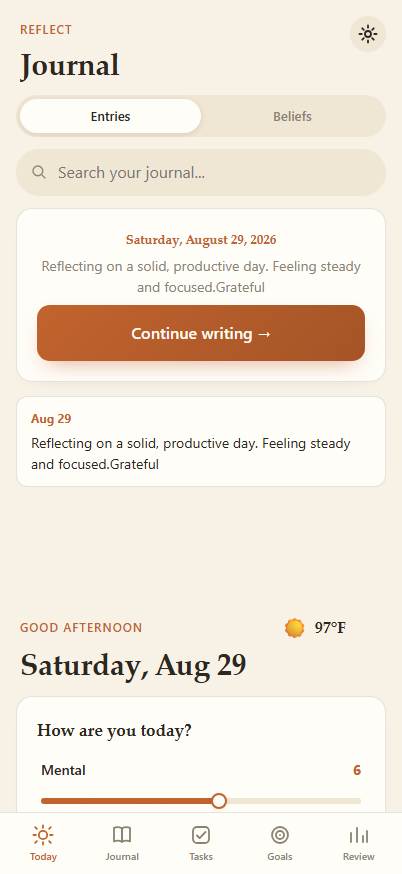
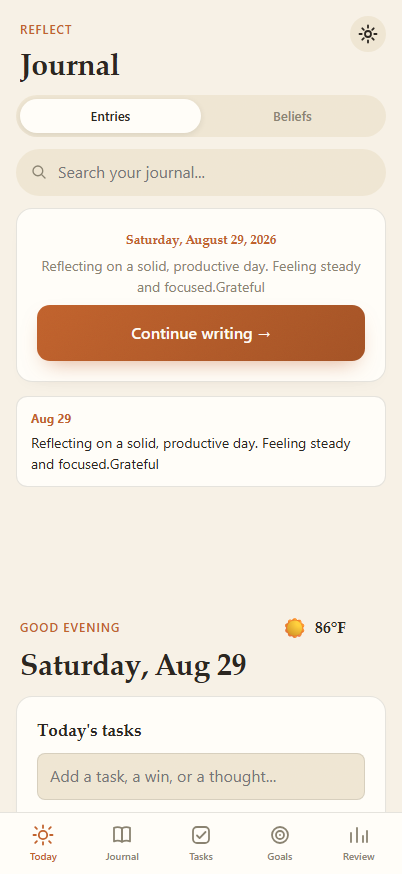
v2.6.1: Today leads with tasks capture, reworked into +Task/Did it/Thought
Reorders the Today scroll-area so the tasks/capture card comes right after
the (usually-hidden) recap, before the calendar; the "How are you today?"
check-in moves down to after the calendar. Reworks the Home tasks widget
from a single open-task quick-add into the same three-button capture as the
Tasks tab (+Task / Did it / Thought), reusing its .task-capture__actions /
.chip-btn classes and the shared wireAutosave save-badge, so a done item or
a thought can be logged straight from the launchpad instead of only from
the Tasks tab.

Claude-Session: https://claude.ai/code/session_01LwL4mP3FPJfFNKsVsGE2Vw

Changed region(s): [[0.0896, 0.8032, 0.9254, 0.9268], [0.1493, 0.7105, 0.3582, 0.7414], [0.7761, 0.7105, 0.8358, 0.7414]]

diff --git a/js/views/today.js b/js/views/today.js
@@ -6,8 +6,8 @@
 // (goals/milestones). See docs/SPEC.md "v2 -- Home as an inviting launchpad" + "v2.2"/"v2.6".
 import { todayStr, addDays } from '../db.js';
 import {
-  getSettings, getTasksForDate, getActivityStreak, getDay, saveDay, addTask, toggleTask,
-  getAssessmentCount, getDoneTasks, getThoughts,
+  getSettings, getTasksForDate, getActivityStreak, getDay, saveDay, addTask, addDoneTask,
+  addThought, toggleTask, getAssessmentCount, getDoneTasks, getThoughts,
 } from '../store.js';
 import { createHomeCalendar } from '../components/homecalendar.js';
 import { createHealthSlider } from '../components/slider.js';
@@ -100,14 +100,14 @@ export async function renderToday(root) {
     <div class="scroll-area">
       <section class="card home-widget home-widget--recap" id="w-recap" hidden></section>
 
-      <section class="card home-widget home-widget--checkin" id="w-checkin" ${w.checkin ? '' : 'hidden'}></section>
-
       <section class="card home-widget home-widget--tasks" id="w-tasks" ${w.todayTasks ? '' : 'hidden'}></section>
 
       <section class="card home-widget home-widget--calendar" id="w-calendar" ${w.calendar ? '' : 'hidden'}>
         <div class="card__title-row"><h2 class="card__title">Your month</h2></div>
         <div id="home-cal-mount"></div>
       </section>
+
+      <section class="card home-widget home-widget--checkin" id="w-checkin" ${w.checkin ? '' : 'hidden'}></section>
 
       <section class="card home-widget home-widget--assessment" id="w-assessment" hidden></section>
 
@@ -401,19 +401,35 @@ function renderAstroWidget(el, settings) {
 // reusing components/tasklist.js's createTaskSection: no drag-reorder or goal-link
 // chip here (those stay on the Tasks tab) -- distinct `home-tasklist` classes so this
 // never collides with `.task-list`/`.task-row` styling or selectors used elsewhere.
+// v2.6.1 -- promoted to a real quick-capture (the launchpad now leads with it, see
+// renderToday's reordered template): reuses the exact Tasks-tab capture pattern
+// (`.task-capture__actions` + the three `.chip-btn` variants + the shared
+// `wireAutosave` badge from components/savebadge.js) so +Task/Did it/Thought behave
+// and look identical here as on the Tasks tab. The capture markup + badge are mounted
+// ONCE and never wiped by a redraw -- only the list below (`drawList()`) re-renders on
+// add/toggle, so the "Saved ✓" fade is never cut short by its own container refreshing.
 async function renderTasksWidget(el, date) {
-  async function draw() {
+  el.innerHTML = `
+    <div class="card__title-row"><h2 class="card__title">Today's tasks</h2></div>
+    <input type="text" class="text-field" id="home-tasklist-input" placeholder="Add a task, a win, or a thought..." />
+    <div class="task-capture__actions">
+      <button type="button" class="chip-btn" id="home-tasklist-task-btn">+ Task</button>
+      <button type="button" class="chip-btn chip-btn--done" id="home-tasklist-did-btn">&#10003; Did it</button>
+      <button type="button" class="chip-btn chip-btn--learned" id="home-tasklist-thought-btn">~ Thought</button>
+    </div>
+    <div class="autosave-hint" id="home-tasklist-hint">&nbsp;</div>
+    <ul class="home-tasklist" id="home-tasklist"></ul>
+    <p class="empty-hint" id="home-tasklist-empty" hidden>Nothing yet — add a task above.</p>
+    <a href="#/tasks" class="settings-hint" style="display:block;margin-top:8px;text-decoration:none;">See all in Tasks &rarr;</a>
+  `;
+  const badge = wireAutosave(el.querySelector('#home-tasklist-hint'));
+  const listEl = el.querySelector('#home-tasklist');
+  const emptyEl = el.querySelector('#home-tasklist-empty');
+  const input = el.querySelector('#home-tasklist-input');
+
+  async function drawList() {
     const tasks = await getTasksForDate(date);
-    el.innerHTML = `
-      <div class="card__title-row"><h2 class="card__title">Today's tasks</h2></div>
-      <ul class="home-tasklist" id="home-tasklist"></ul>
-      <p class="empty-hint" id="home-tasklist-empty" ${tasks.length ? 'hidden' : ''}>Nothing yet — add a task below.</p>
-      <div class="home-tasklist-add">
-        <input type="text" class="text-field" id="home-tasklist-input" placeholder="Add a task..." />
-        <button class="chip-btn" id="home-tasklist-add-btn">+ Add</button>
-      </div>
-    `;
-    const listEl = el.querySelector('#home-tasklist');
+    emptyEl.hidden = tasks.length > 0;
     listEl.innerHTML = tasks.map((t) => `
       <li class="home-tasklist__row ${t.done ? 'is-done' : ''}" data-id="${t.id}">
         <button class="task-check" aria-label="Toggle done"><svg viewBox="0 0 24 24" fill="none"><path d="M5 12.5l4.5 4.5L19 7.5" stroke="currentColor" stroke-width="2.4" stroke-linecap="round" stroke-linejoin="round"/></svg></button>
@@ -425,21 +441,29 @@ async function renderTasksWidget(el, date) {
         row.classList.add('is-animating');
         const done = await toggleTask(Number(row.dataset.id));
         row.classList.toggle('is-done', done);
-        setTimeout(() => draw(), done ? 550 : 0);
+        setTimeout(() => drawList(), done ? 550 : 0);
       });
     });
-    const input = el.querySelector('#home-tasklist-input');
-    async function submitAdd() {
-      const text = input.value.trim();
-      if (!text) return;
-      await addTask(date, text);
-      draw();
-    }
-    el.querySelector('#home-tasklist-add-btn').addEventListener('click', submitAdd);
-    input.addEventListener('keydown', (e) => { if (e.key === 'Enter') { e.preventDefault(); submitAdd(); } });
   }
+
+  // +Task/Did it/Thought all funnel through the same trim-and-clear submit, differing
+  // only in which store.js writer they call -- exactly the Tasks-tab capture's contract.
+  async function submitWith(addFn) {
+    const text = input.value.trim();
+    if (!text) return;
+    badge.saving();
+    await addFn(date, text);
+    badge.saved();
+    input.value = '';
+    drawList();
+  }
+  el.querySelector('#home-tasklist-task-btn').addEventListener('click', () => submitWith(addTask));
+  el.querySelector('#home-tasklist-did-btn').addEventListener('click', () => submitWith(addDoneTask));
+  el.querySelector('#home-tasklist-thought-btn').addEventListener('click', () => submitWith(addThought));
+  input.addEventListener('keydown', (e) => { if (e.key === 'Enter') { e.preventDefault(); submitWith(addTask); } });
+
   try {
-    await draw();
+    await drawList();
   } catch (err) {
     console.warn('today\'s-tasks widget failed', err);
     el.hidden = true; el.innerHTML = '';

diff --git a/scripts/test.js b/scripts/test.js
@@ -168,18 +168,68 @@ async function main() {
   const noTextareaOnHome = await page.locator('.view--today textarea').count();
   check('Home has no full-text journal entry surface (no textarea)', noTextareaOnHome === 0, `count=${noTextareaOnHome}`);
 
-  // v2.2 -- compact "Today's tasks" card: view, check off, quick-add inline.
+  // v2.6.1 -- Home's "Today's tasks" is now a real quick-capture (+Task / Did it /
+  // Thought), the exact same three-button pattern as the Tasks tab, and the card
+  // itself moved above the calendar/check-in (see docs/SPEC.md v2.6.1 -- the
+  // launchpad now leads with task capture instead of the mood check-in).
   const homeTaskCard = await page.locator('#w-tasks .home-tasklist').count();
-  check('Home shows the compact "Today\'s tasks" card', homeTaskCard === 1, `count=${homeTaskCard}`);
+  check('Home shows the "Today\'s tasks" card', homeTaskCard === 1, `count=${homeTaskCard}`);
+  const homeCaptureButtons = await page.locator('#w-tasks .task-capture__actions .chip-btn').count();
+  check('Home tasks capture has all three buttons (+Task / Did it / Thought)', homeCaptureButtons === 3, `count=${homeCaptureButtons}`);
+
+  const tasksBeforeCheckin = await page.evaluate(() => {
+    const tasks = document.querySelector('#w-tasks');
+    const checkin = document.querySelector('#w-checkin');
+    return !!(tasks && checkin && (tasks.compareDocumentPosition(checkin) & Node.DOCUMENT_POSITION_FOLLOWING));
+  });
+  check('Today reorder: tasks/capture card now sits before the check-in card (which moved below the calendar)', tasksBeforeCheckin);
+
   await page.fill('#home-tasklist-input', 'Home quick add task');
-  await page.click('#home-tasklist-add-btn');
+  await page.click('#home-tasklist-task-btn');
   await page.waitForTimeout(250);
   const homeTaskRows = await page.locator('.home-tasklist__row').count();
-  check('quick-add on Home creates a to-do', homeTaskRows === 1, `count=${homeTaskRows}`);
+  check('+Task on Home creates an open to-do', homeTaskRows === 1, `count=${homeTaskRows}`);
+  const homeInputClearedAfterTask = await page.inputValue('#home-tasklist-input');
+  check('Home capture input clears after +Task', homeInputClearedAfterTask === '', JSON.stringify(homeInputClearedAfterTask));
+
   await page.click('.home-tasklist__row >> nth=0 >> .task-check');
   await page.waitForTimeout(700);
   const homeTaskDone = await page.locator('.home-tasklist__row.is-done').count();
   check('checking off a to-do on Home works', homeTaskDone === 1, `count=${homeTaskDone}`);
+
+  // "Did it" writes a completed task directly (addDoneTask) -- it never shows up in the
+  // open-tasks list, so verify the actual Dexie record via window.__momentumDb instead of
+  // the DOM. Clean the record up right after so it doesn't shift the Tasks-tab history
+  // counts asserted later in this run.
+  await page.fill('#home-tasklist-input', 'Shipped the Home capture rework');
+  await page.click('#home-tasklist-did-btn');
+  await page.waitForTimeout(250);
+  const homeDoneRecord = await page.evaluate(async () => {
+    const db = window.__momentumDb;
+    const all = await db.tasks.toArray();
+    const t = all.find((x) => x.text === 'Shipped the Home capture rework');
+    if (!t) return null;
+    await db.tasks.delete(t.id);
+    return { date: t.date, done: t.done };
+  });
+  check('"Did it" on Home writes a completed task record with the right date/text (verified via window.__momentumDb)', !!homeDoneRecord && homeDoneRecord.done === true && homeDoneRecord.date === dateNDaysAgo(0), JSON.stringify(homeDoneRecord));
+  const homeHintAfterDidIt = await page.locator('#home-tasklist-hint').innerText();
+  check('Home capture shows a save confirmation after "Did it"', /Saved/.test(homeHintAfterDidIt), homeHintAfterDidIt);
+
+  // "Thought" writes a logItem, not a task -- same window.__momentumDb verification +
+  // cleanup approach.
+  await page.fill('#home-tasklist-input', 'Maybe reorder Home again someday');
+  await page.click('#home-tasklist-thought-btn');
+  await page.waitForTimeout(250);
+  const homeThoughtRecord = await page.evaluate(async () => {
+    const db = window.__momentumDb;
+    const all = await db.logItems.toArray();
+    const l = all.find((x) => x.text === 'Maybe reorder Home again someday');
+    if (!l) return null;
+    await db.logItems.delete(l.id);
+    return { date: l.date, type: l.type };
+  });
+  check('"Thought" on Home writes a thought logItem with the right date/text (verified via window.__momentumDb)', !!homeThoughtRecord && homeThoughtRecord.type === 'thought' && homeThoughtRecord.date === dateNDaysAgo(0), JSON.stringify(homeThoughtRecord));
 
   // ---------------- "How are you today?" check-in (v2.6 -- moved here from the
   // Journal hub; always visible now, no collapsible toggle, no done/learned log). ------
@@ -187,8 +237,13 @@ async function main() {
   // value. Verify the shared autosave badge also flashes on a slider change. All 8
   // non-core areas were already enabled in Settings above, so they're already in the
   // always-visible row too -- 11 tracks total, not just the core 3.
+  // v2.6.1 -- the check-in card moved further down the page (below tasks + calendar),
+  // so these sliders are no longer guaranteed to start in-viewport; scroll each into
+  // view first (as the Finances/Spirit/etc. sliders below already do) or a raw
+  // page.mouse.click() at an off-screen boundingBox() misses the element entirely.
   const checkinSliders = await page.locator('#checkin-health-row .hslider__track').all();
   for (const slider of checkinSliders) {
+    await slider.scrollIntoViewIfNeeded();
     const box = await slider.boundingBox();
     await page.mouse.click(box.x + box.width * 0.8, box.y + box.height / 2);
     await page.waitForTimeout(150);

diff --git a/sw.js b/sw.js
@@ -1,7 +1,7 @@
 // sw.js -- precaches the full app shell + vendor libs so Momentum works completely
 // offline. Cache-first for everything precached; network fallback (same-origin only,
 // this app makes no external calls) for anything else.
-const CACHE_NAME = 'momentum-v2-15';
+const CACHE_NAME = 'momentum-v2-16';
 const PRECACHE_URLS = [
   './',
   './index.html',

diff --git a/js/version.js b/js/version.js
@@ -1,4 +1,4 @@
 // Single source of truth for the app version. Shown in Settings so you can always
 // tell which build your device is running, and bumped on every deploy. Keep the
 // sw.js CACHE_NAME bumped in lockstep so the service worker re-caches new assets.
-export const APP_VERSION = '2.6.0';
+export const APP_VERSION = '2.6.1';
